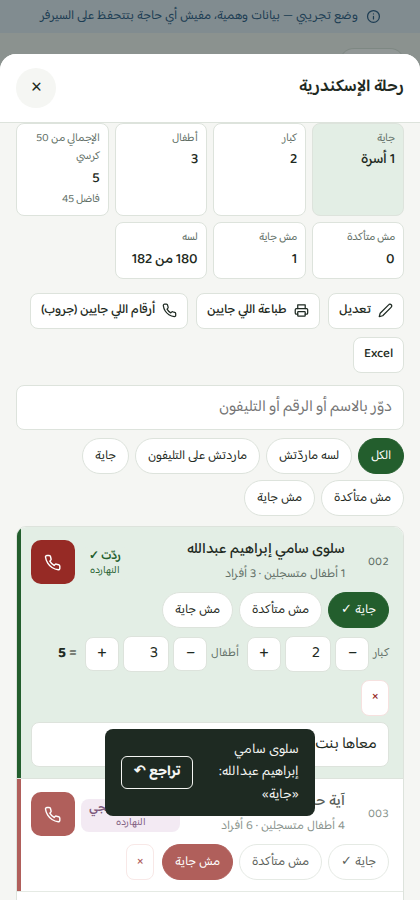
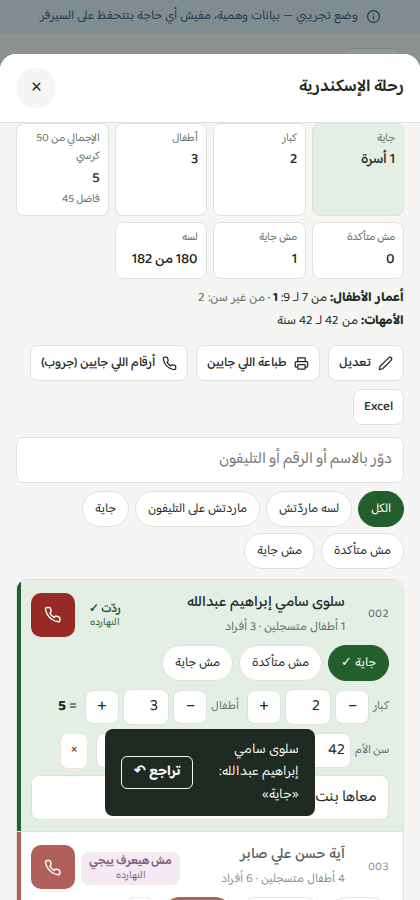
Trips: mother's age and each coming child's age (v1.3.27)
Prefilled from the national ID and registered children, editable per row,
summarized by age band on top and included in print and Excel. Redraws keep
the focused box and what was typed.

Claude-Session: https://claude.ai/code/session_01QQNigkUkHPjuU8wEiS2QHJ

diff --git a/app.js b/app.js
@@ -3,7 +3,7 @@ import { MONTHS, norm, cleanPhone, validPhone, phoneIssue, jpegsToPdf, latinDigi
 import { ic } from "./icons.js";
 
 /* ================= config ================= */
-export const VERSION = "1.3.26";
+export const VERSION = "1.3.27";
 const SUPABASE_URL = "https://jvgxldhshbyyuftjgfrw.supabase.co";
 const SUPABASE_KEY = "sb_publishable_yS3OzVszjySNzCaRAyWpQA_pmKoPZJT";
 const DOMAIN = "daralekram.app";
@@ -2318,12 +2318,19 @@ const rsvpsOf = memo(() => { const m=new Map(); for(const r of EP.values()) (m.g
 const rsvps = id => rsvpsOf().get(id)||[];
 const kidsOf = b => (b.children||[]).filter(k=>{ const a=age(k.birth); return a===""||a<18; }).length;
 // What she probably brings, to start from when she says «جاية»: herself + the kids on file (or the family minus her).
-const guessCounts = b => { const k=kidsOf(b); return { adults:1, kids:k||(famSize(b)?Math.max(famSize(b)-1,0):0) }; };
+const kidAgesOf = b => (b.children||[]).map(k=>age(k.birth)).filter(a=>a!==""&&a<18).sort((x,y)=>y-x);
+const momAge = b => { const p=parseNID(b.nationalId||"",now), a=age(b.birth||p.birth||""); return a===""||a<15||a>100?null:a; };
+const guessCounts = b => { const k=kidsOf(b), kids=k||(famSize(b)?Math.max(famSize(b)-1,0):0); return { adults:1, kids, kid_ages:kidAgesOf(b).slice(0,kids), mother_age:momAge(b) }; };
+const kidBand = a => { const i=AGE_BANDS.findIndex(([lo,hi])=>a>=lo&&a<=hi); return i<0?"":AGE_BANDS[i][1]>=200?`${AGE_BANDS[i][0]} وأكبر`:`من ${AGE_BANDS[i][0]} لـ ${AGE_BANDS[i][1]}`; };
+// the ages typed for the kids actually coming (the list can be longer if «أطفال» went down)
+const agesComing = r => (r.kid_ages||[]).slice(0,+r.kids||0);
 function eventTotals(id){
   const rs=rsvps(id), yes=rs.filter(r=>r.answer==="جاية"), maybe=rs.filter(r=>r.answer==="مش متأكدة");
   const sum=(a,f)=>a.reduce((s,r)=>s+(+r[f]||0),0);
   return { n:rs.length, yes:yes.length, no:rs.filter(r=>r.answer==="مش جاية").length, maybe:maybe.length, open:rs.filter(r=>!r.answer).length,
-    adults:sum(yes,"adults"), kids:sum(yes,"kids"), people:sum(yes,"adults")+sum(yes,"kids"), maybePeople:sum(maybe,"adults")+sum(maybe,"kids") };
+    adults:sum(yes,"adults"), kids:sum(yes,"kids"), people:sum(yes,"adults")+sum(yes,"kids"), maybePeople:sum(maybe,"adults")+sum(maybe,"kids"),
+    bands:(()=>{ const m=new Map(AGE_BANDS.map(([lo,hi])=>[kidBand(lo),0])); let none=0; yes.forEach(r=>{ const ag=agesComing(r); for(let i=0;i<(+r.kids||0);i++){ const a=ag[i]; if(a==null||a==="") none++; else m.set(kidBand(a),(m.get(kidBand(a))||0)+1); } }); return { m, none }; })(),
+    moms:yes.map(r=>r.mother_age).filter(a=>a!=null) };
 }
 const canRsvp = () => role==="manager"||role==="worker"||role==="helper";
 // Save one family's answer. Taps show at once; the stepper waits half a second so + + + is one save.
@@ -2403,6 +2410,8 @@ function openEvent(id){
     <div class="facts evfacts"><div class="ok"><span>جاية</span><strong>${num(t.yes)} أسرة</strong></div><div><span>كبار</span><strong>${num(t.adults)}</strong></div><div><span>أطفال</span><strong>${num(t.kids)}</strong></div>
       <div class="${seats!=null&&seats<0?"neg":""}"><span>الإجمالي${e.capacity?` من ${num(e.capacity)} كرسي`:""}</span><strong>${num(t.people)}</strong>${seats!=null?`<small>${seats>=0?`فاضل ${num(seats)}`:`زيادة ${num(-seats)}`}</small>`:""}</div>
       <div><span>مش متأكدة</span><strong>${num(t.maybe)}</strong>${t.maybePeople?`<small>${num(t.maybePeople)} فرد</small>`:""}</div><div><span>مش جاية</span><strong>${num(t.no)}</strong></div><div><span>لسه</span><strong>${num(t.open)} من ${num(t.n)}</strong></div></div>
+    ${t.kids||t.moms.length?`<div class="agesum">${t.kids?`<b>أعمار الأطفال:</b> ${[...t.bands.m].filter(([,n])=>n).map(([l,n])=>`${l}: <b>${num(n)}</b>`).join(" · ")||""}${t.bands.none?`${[...t.bands.m].some(([,n])=>n)?" · ":""}<span class="muted">من غير سن: ${num(t.bands.none)}</span>`:""}`:""}
+      ${t.moms.length?`<br><b>الأمهات:</b> من ${num(Math.min(...t.moms))} لـ ${num(Math.max(...t.moms))} سنة${t.moms.length<t.yes?` <span class="muted">(${num(t.yes-t.moms.length)} من غير سن)</span>`:""}`:""}</div>`:""}
     <div class="bar">${cw?`<button class="btn sm" id="e_edit">${ic("edit")}تعديل</button>`:""}<button class="btn sm" id="e_print">${ic("printer")}طباعة اللي جايين</button><button class="btn sm" id="e_phones">${ic("phone")}أرقام اللي جايين (جروب)</button><button class="btn sm" id="e_x">Excel</button></div>
     <div class="row" style="margin:8px 0"><input type="search" id="e_q" placeholder="دوّر بالاسم أو الرقم أو التليفون" value="${esc(q_)}" style="flex:1 1 200px"></div>
     <div class="seg">${Object.entries(FIL).map(([k,l])=>`<button class="${only===k?"on":""}" data-evf="${k}">${l}</button>`).join("")}</div>
@@ -2411,6 +2420,8 @@ function openEvent(id){
         <div class="row" style="width:100%"><span class="code">${esc(b.code)}</span><span class="grow"><span class="nm">${esc(b.name)}</span><br><span class="sub">${kidsOf(b)?`${num(kidsOf(b))} أطفال متسجلين`:"مفيش أطفال متسجلين"}${famSize(b)?` · ${num(famSize(b))} أفراد`:""}</span></span>${callCell(b.id,b.phone,ctx)}</div>
         <div class="row evctl"><span class="seg ans" role="group" aria-label="ردها">${Object.entries(ANSWERS).map(([k,v])=>`<button class="${r.answer===k?"on "+v.cls:""}" data-ans="${k}" data-ep="${r.id}" ${edit?"":"disabled"}>${v.label}</button>`).join("")}</span>
           ${showN?`${stp(r,"adults","كبار",edit)}${stp(r,"kids","أطفال",edit)}<span class="evsum">= <b>${num((+r.adults||0)+(+r.kids||0))}</b></span>`:""}
+          ${showN?`<span class="ages"><small>سن الأم</small><input type="number" min="10" max="110" inputmode="numeric" data-mom="${r.id}" value="${r.mother_age??""}" placeholder="؟" ${edit?"":"disabled"} aria-label="سن الأم"></span>`:""}
+          ${showN&&+r.kids?`<span class="ages"><small>أعمار الأطفال</small>${Array.from({length:Math.min(+r.kids,20)},(_,i)=>`<input type="number" min="0" max="25" inputmode="numeric" data-age="${r.id}" data-i="${i}" value="${(r.kid_ages||[])[i]??""}" placeholder="؟" ${edit?"":"disabled"} aria-label="سن الطفل ${i+1}">`).join("")}</span>`:""}
           ${cw?`<button class="btn sm danger" data-evrm="${r.id}" aria-label="شيل ${esc(b.name)} من الرحلة" title="شيل من الرحلة">×</button>`:""}</div>
         ${showN||r.note?`<input type="text" class="evnote" data-note="${r.id}" value="${esc(r.note||"")}" placeholder="ملاحظة (مثال: معاها بنت أختها، محتاجة كرسي متحرك)" ${edit?"":"disabled"}>`:""}
         ${!showN&&!r.answer?`<span class="sub" style="font-size:12px">لو قالت جاية هنحط ${num(g.adults)} كبار و${num(g.kids)} أطفال وتقدر تعدّل</span>`:""}
@@ -2422,12 +2433,15 @@ function openEvent(id){
     bindCalls(s, ()=>refreshSheet());
     s.querySelectorAll("[data-evf]").forEach(el=>el.onclick=()=>{ only=el.dataset.evf; refreshSheet(); });
     const eq=q("#e_q"); eq.oninput=()=>{ q_=eq.value; const pos=eq.selectionStart; refreshSheet(); const n=$("#e_q"); if(n){ n.focus(); n.setSelectionRange(pos,pos); } };
-    s.querySelectorAll("[data-ans]").forEach(el=>el.onclick=()=>{ const r=EP.get(el.dataset.ep), b=B.get(r.beneficiary_id), ans=el.dataset.ans, prev={ answer:r.answer, adults:r.adults, kids:r.kids };
-      const next=r.answer===ans?{ answer:"" }:ans==="مش جاية"?{ answer:ans, adults:0, kids:0 }:{ answer:ans, ...((+r.adults||0)+(+r.kids||0)?{}:guessCounts(b)) };
+    s.querySelectorAll("[data-ans]").forEach(el=>el.onclick=()=>{ const r=EP.get(el.dataset.ep), b=B.get(r.beneficiary_id), ans=el.dataset.ans, prev={ answer:r.answer, adults:r.adults, kids:r.kids, kid_ages:r.kid_ages||[], mother_age:r.mother_age??null };
+      const next=r.answer===ans?{ answer:"" }:ans==="مش جاية"?{ answer:ans, adults:0, kids:0 }:{ answer:ans, ...((+r.adults||0)+(+r.kids||0)?(r.mother_age==null&&momAge(b)!=null?{ mother_age:momAge(b) }:{}):guessCounts(b)) };
       setRsvp(r.id,next); undoable(`${b.name}: ${next.answer?`«${next.answer}»`:"اتشال الرد"}`, ()=>setRsvp(r.id,prev)); });
     s.querySelectorAll("[data-st]").forEach(el=>el.onclick=()=>{ const r=EP.get(el.dataset.st), f=el.dataset.f; setRsvp(r.id,{ [f]:Math.max(0,Math.min(50,(+r[f]||0)+(+el.dataset.d))) }, true); });
     s.querySelectorAll("[data-num]").forEach(el=>el.onchange=()=>setRsvp(el.dataset.num,{ [el.dataset.f]:Math.max(0,Math.min(50,Math.round(+el.value||0))) }));
     s.querySelectorAll("[data-note]").forEach(el=>el.onchange=()=>setRsvp(el.dataset.note,{ note:el.value.trim() }));
+    s.querySelectorAll("[data-mom]").forEach(el=>el.onchange=()=>{ const v=el.value===""?null:Math.round(+el.value); if(v!=null&&(v<10||v>110)){ toast("سن الأم لازم يبقى بين 10 و110"); return; } setRsvp(el.dataset.mom,{ mother_age:v }); });
+    s.querySelectorAll("[data-age]").forEach(el=>el.onchange=()=>{ const r=EP.get(el.dataset.age), ag=Array.from({length:+r.kids||0},(_,i)=>(r.kid_ages||[])[i]??null);
+      ag[+el.dataset.i]=el.value===""?null:Math.max(0,Math.min(25,Math.round(+el.value))); setRsvp(r.id,{ kid_ages:ag }); });
     s.querySelectorAll("[data-evrm]").forEach(el=>el.onclick=async()=>{ const r=EP.get(el.dataset.evrm), b=B.get(r.beneficiary_id);
       const { error } = await sb.from("event_people").delete().eq("id",r.id); if(error){ toast(errMsg(error)); return; } EP.delete(r.id); changed();
       undoable(`${b?.name||"الأسرة"} اتشالت من الرحلة`, async()=>{ const { id:_, updated_at, updated_by, ...row } = r; const { data, error:e2 } = await sb.from("event_people").insert({ ...row, id:r.id }).select().single(); if(e2){ toast(errMsg(e2)); return false; } EP.set(data.id,data); changed(); }); });
@@ -2444,21 +2458,27 @@ function openEvent(id){
   };
   if(!EV.get(id)) return;
   let mine=-1;
-  const redraw=()=>{ const body=$("#scrim .sh-body"); if(body&&EV.get(id)&&sheetSeq===mine){ const ae=document.activeElement, keep=ae?.classList?.contains("evnote")||ae?.dataset?.num?ae:null; if(keep) return; body.innerHTML=draw(); mount($("#scrim")); } };
+  // Redraw without losing the box being typed in (other callers' changes arrive while you type).
+  const redraw=()=>{ const body=$("#scrim .sh-body"); if(!(body&&EV.get(id)&&sheetSeq===mine)) return;
+    const ae=document.activeElement, keyOf=el=>["note","num","age","mom","f","i"].filter(k=>el.dataset[k]!=null).map(k=>`[data-${k}="${el.dataset[k]}"]`).join("");
+    const key=ae&&body.contains(ae)&&ae.tagName==="INPUT"&&ae.type!=="search"?keyOf(ae):"", val=key?ae.value:null, pos=key&&ae.type==="text"?ae.selectionStart:null;
+    body.innerHTML=draw(); mount($("#scrim"));
+    if(key){ const n=body.querySelector(key); if(n){ n.value=val; n.focus(); if(pos!=null) n.setSelectionRange(pos,pos); } } };
   sheet(EV.get(id).title, draw(), mount, redraw); mine=sheetSeq;
 }
 function eventHTML(id){
   const e=EV.get(id), t=eventTotals(id), rows=rsvps(id).filter(r=>r.answer==="جاية").map(r=>({ r, b:B.get(r.beneficiary_id) })).filter(x=>x.b).sort((a,b)=>String(a.b.code).localeCompare(String(b.b.code),"en",{numeric:true}));
   return `<div class="ps">${hdr()}<h1>${esc(e.title)}</h1><div class="mo">${e.date?dLabel(e.date):""}${e.place?" — "+esc(e.place):""}</div>
-    <table><thead><tr><th>م</th><th>رقم الحالة</th><th>الاسم</th><th>التليفون</th><th>كبار</th><th>أطفال</th><th>الإجمالي</th><th>ملاحظة</th><th>حضر</th></tr></thead><tbody>
-    ${rows.map(({r,b},i)=>`<tr><td>${i+1}</td><td>${esc(b.code)}</td><td class="nm">${esc(b.name)}</td><td>${esc(cleanPhone(b.phone))}</td><td>${num(+r.adults||0)}</td><td>${num(+r.kids||0)}</td><td>${num((+r.adults||0)+(+r.kids||0))}</td><td>${esc(r.note||"")}</td><td class="sig"></td></tr>`).join("")}
-    </tbody><tfoot><tr><td colspan="4">الإجمالي: ${num(t.yes)} أسرة</td><td>${num(t.adults)}</td><td>${num(t.kids)}</td><td>${num(t.people)}</td><td colspan="2">${e.capacity?`الكراسي: ${num(e.capacity)}`:""}</td></tr></tfoot></table>
+    <table><thead><tr><th>م</th><th>رقم الحالة</th><th>الاسم</th><th>التليفون</th><th>كبار</th><th>سن الأم</th><th>أطفال</th><th>أعمارهم</th><th>الإجمالي</th><th>ملاحظة</th><th>حضر</th></tr></thead><tbody>
+    ${rows.map(({r,b},i)=>`<tr><td>${i+1}</td><td>${esc(b.code)}</td><td class="nm">${esc(b.name)}</td><td>${esc(cleanPhone(b.phone))}</td><td>${num(+r.adults||0)}</td><td>${r.mother_age??""}</td><td>${num(+r.kids||0)}</td><td>${agesComing(r).map(a=>a??"؟").join("، ")}</td><td>${num((+r.adults||0)+(+r.kids||0))}</td><td>${esc(r.note||"")}</td><td class="sig"></td></tr>`).join("")}
+    </tbody><tfoot><tr><td colspan="4">الإجمالي: ${num(t.yes)} أسرة</td><td>${num(t.adults)}</td><td></td><td>${num(t.kids)}</td><td></td><td>${num(t.people)}</td><td colspan="2">${e.capacity?`الكراسي: ${num(e.capacity)}`:""}</td></tr></tfoot></table>
+    ${t.kids?`<p><b>أعمار الأطفال:</b> ${[...t.bands.m].filter(([,n])=>n).map(([l,n])=>`${l}: ${num(n)}`).join(" · ")}${t.bands.none?` · من غير سن: ${num(t.bands.none)}`:""}</p>`:""}
     ${signsHTML()}</div>`;
 }
 function eventXlsx(id){
-  const e=EV.get(id), rows=[["رقم الحالة","الاسم","التليفون","واتساب","الرد","كبار","أطفال","الإجمالي","ملاحظة","آخر مكالمة","أطفال متسجلين","عدد الأفراد"]];
+  const e=EV.get(id), rows=[["رقم الحالة","الاسم","التليفون","واتساب","الرد","كبار","سن الأم","أطفال","أعمار الأطفال","الإجمالي","ملاحظة","آخر مكالمة","أطفال متسجلين","عدد الأفراد"]];
   rsvps(id).map(r=>({ r, b:B.get(r.beneficiary_id) })).filter(x=>x.b).sort((a,b)=>String(a.b.code).localeCompare(String(b.b.code),"en",{numeric:true}))
-    .forEach(({r,b})=>{ const c=lastCall(b.id,"ev:"+id); rows.push([b.code,b.name,cleanPhone(b.phone),waNum(b),r.answer||"لسه",+r.adults||0,+r.kids||0,(+r.adults||0)+(+r.kids||0),r.note||"",c?CALL_RES[c.result].label:"",kidsOf(b),famSize(b)||""]); });
+    .forEach(({r,b})=>{ const c=lastCall(b.id,"ev:"+id); rows.push([b.code,b.name,cleanPhone(b.phone),waNum(b),r.answer||"لسه",+r.adults||0,r.mother_age??"",+r.kids||0,agesComing(r).map(a=>a??"؟").join("، "),(+r.adults||0)+(+r.kids||0),r.note||"",c?CALL_RES[c.result].label:"",kidsOf(b),famSize(b)||""]); });
   xlsx({"الرحلة":rows},`${e.title}.xlsx`);
 }
 

diff --git a/demo.js b/demo.js
@@ -117,7 +117,7 @@ export function createDemoClient(){
           if(table === "beneficiaries" && r.national_id && rows().some(x => x.national_id === r.national_id && x.id !== r.id)) throw { message: "duplicate key value violates unique constraint national_id" };
           const i = r.id ? rows().findIndex(x => x.id === r.id) : -1;
           if(i >= 0){ Object.assign(rows()[i], r); return rows()[i]; }
-          const row = { id: r.id || (table === "activity_log" ? rows().length + 1 : uuid()), created_at: now, ...(table === "activity_log" || table === "calls" ? { at: now, by: session.user.id } : {}), ...(table === "beneficiaries" ? { archived_at: null, tags: [], photos: {} } : {}), ...(["donations","ledger","stock_moves"].includes(table) ? { date: now.slice(0, 10), cancelled_at: null } : {}), ...(table === "donations" ? { receipt_no: rows().length + 1 } : {}), ...(table === "events" ? { place: "", notes: "", capacity: null, archived_at: null } : {}), ...(table === "event_people" ? { answer: "", adults: 0, kids: 0, note: "", updated_at: now } : {}), ...r };
+          const row = { id: r.id || (table === "activity_log" ? rows().length + 1 : uuid()), created_at: now, ...(table === "activity_log" || table === "calls" ? { at: now, by: session.user.id } : {}), ...(table === "beneficiaries" ? { archived_at: null, tags: [], photos: {} } : {}), ...(["donations","ledger","stock_moves"].includes(table) ? { date: now.slice(0, 10), cancelled_at: null } : {}), ...(table === "donations" ? { receipt_no: rows().length + 1 } : {}), ...(table === "events" ? { place: "", notes: "", capacity: null, archived_at: null } : {}), ...(table === "event_people" ? { answer: "", adults: 0, kids: 0, kid_ages: [], mother_age: null, note: "", updated_at: now } : {}), ...r };
           rows().push(row); return row;
         });
         return { data: st.single ? out[0] : out, error: null };

diff --git a/index.html b/index.html
@@ -294,6 +294,8 @@ h4{font-size:14px;margin:14px 0 6px;color:var(--muted);font-weight:600}
 .stp{display:inline-flex;align-items:center;gap:4px}.stp small{font-size:12px;color:var(--muted)}
 .stp button{width:34px;height:34px;border:1px solid var(--line);background:var(--card);border-radius:8px;font-size:18px;line-height:1;color:inherit}
 .stp input{width:46px;text-align:center;padding:4px;min-height:34px}
+.ages{display:inline-flex;align-items:center;gap:4px;flex-wrap:wrap}.ages small{font-size:12px;color:var(--muted)}.ages input{width:44px;text-align:center;padding:4px;min-height:34px}
+.agesum{font-size:13px;margin:-6px 0 10px;line-height:1.8}.agesum .muted{color:var(--muted)}
 .evsum{font-size:15px}.evnote{width:100%;font-size:13px;min-height:34px}
 label.chk{display:flex;gap:8px;align-items:center;margin:6px 0}label.chk input{width:20px;height:20px}
 .cfix{border:1px dashed var(--line);background:none;color:inherit;border-radius:16px;padding:3px 10px;font-size:12px;display:inline-flex;gap:4px;align-items:center;min-height:32px;white-space:nowrap}.cfix svg{width:14px;height:14px}

diff --git a/sw.js b/sw.js
@@ -1,6 +1,6 @@
 // Service worker: keeps the app shell on the device so it opens without internet.
 // Case data never goes through here — it comes live from Supabase (plus the app's own offline copy).
-const VERSION = "v1.3.26";
+const VERSION = "v1.3.27";
 const SHELL = `shell-${VERSION}`, STATIC = "static-v2";
 const APP = ["./", "index.html", "app.js", "core.js", "icons.js", "manifest.webmanifest", "icon-192.png", "icon-512.png", "icon-maskable-192.png", "icon-maskable-512.png", "apple-touch-icon.png"];
 // Pinned third-party files never change at the same URL, so they can be cache-first forever.

diff --git a/CHANGELOG.md b/CHANGELOG.md
@@ -1,5 +1,11 @@
 # سجل التغييرات
 
+## 1.3.27 — 27 سبتمبر 2026
+- **الرحلات: سن الأم وأعمار الأطفال اللي جايين.** جنب كل أسرة «جاية»: خانة «سن الأم» وخانة لسن كل طفل (عدد الخانات = عدد الأطفال). لما تدوس «جاية» البرنامج بيحط سن الأم من رقمها القومي وأعمار الأطفال المتسجلين، وتعدّلهم.
+- فوق الكشف: أعمار الأطفال اللي جايين (من 0 لـ 3، من 4 لـ 6، …) وعدد اللي من غير سن، وأصغر وأكبر سن للأمهات.
+- الطباعة والـExcel فيهم سن الأم وأعمار الأطفال.
+- الكتابة في الخانات مابقتش بتتلخبط لو حد تاني بيسجل في نفس الوقت.
+
 ## 1.3.26 — 27 سبتمبر 2026
 - **لقيت رقم صح؟** جنب زرار الاتصال (في الكشوفات والرحلات والحالة): «لقيت رقم صح»، ولو المكالمة اتعلّمت «رقم غلط» بيبقى «صحّح الرقم»، ولو مالهاش رقم «ضيف رقم». بتكتب الرقم وتختار ده رقمها هي ولا رقم جوزها / ابنها / …، وتعلّم لو هو كمان رقم الواتساب.
 - بيقولك لو الرقم ناقص أو غلط، أو متسجل عند حالة تانية. بيتحفظ في ملف الحالة على طول (وبيتسجل في سجلها)، وزرار الاتصال بيطلب الرقم الجديد في كل الكشوفات. و«تراجع» بيرجّع القديم.
